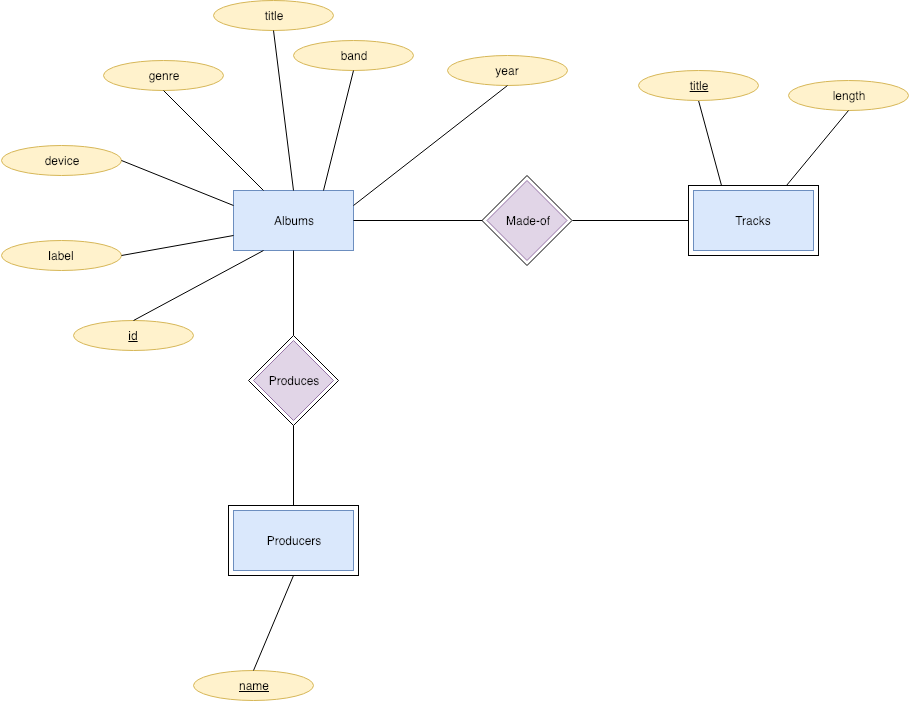
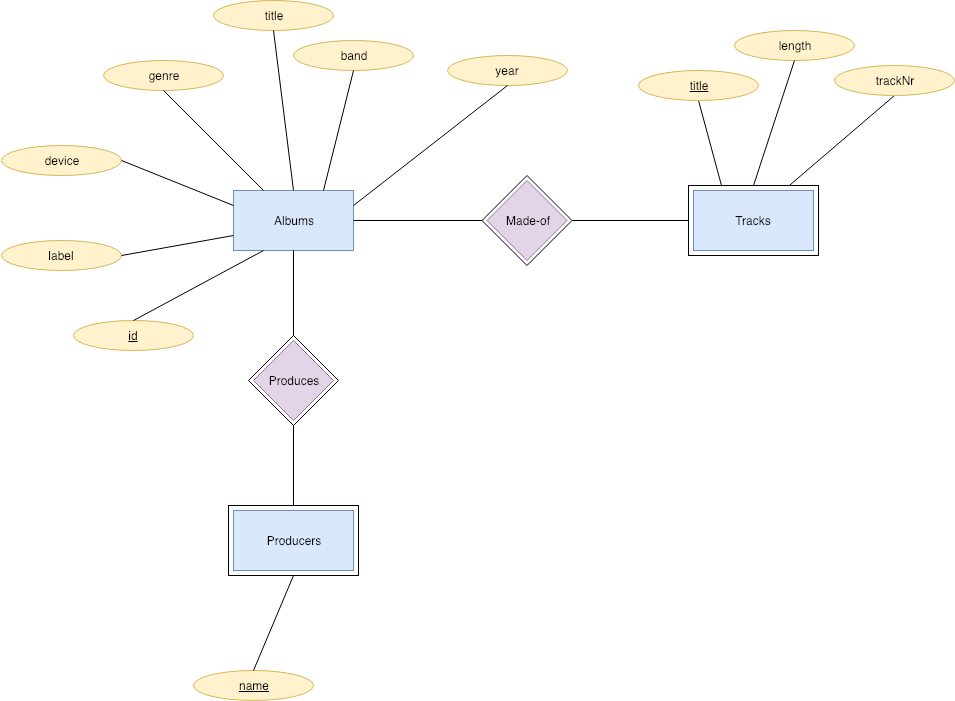
Change SQL design

diff --git a/routes/add.js b/routes/add.js
@@ -1,4 +1,5 @@
 const router = require('express').Router();
+const uniqid = require('uniqid');
 
 router
   .route('/')
@@ -9,46 +10,45 @@ router
     const db = req.app.get('db');
     const data = req.body;
     const producers = data.producer.split(',');
+    const id = uniqid();
 
     db.serialize(() => {
       db.run(
-        'INSERT INTO Albums (label, device, genre, albumTitle, band, year) VALUES (?, ?, ?, ?, ?, ?)',
+        'INSERT INTO Albums (label, device, genre, title, band, year, id) VALUES (?, ?, ?, ?, ?, ?, ?)',
         data.label,
         data.device,
         data.genre,
         data.title,
         data.band,
-        data.year
+        data.year,
+        id
       );
 
       if (Array.isArray(data.track)) {
         for (let i = 0; i < data.track.length; i++) {
           db.run(
-            'INSERT INTO Tracks (name, length, albumTitle, band, trackNr) VALUES (?, ?, ?, ?, ?)',
+            'INSERT INTO Tracks (name, length, trackNr, albumId) VALUES (?, ?, ?, ?)',
             data.track[i],
             data.length[i],
-            data.title,
-            data.band,
-            i + 1
+            i + 1,
+            id
           );
         }
       } else {
         db.run(
-          'INSERT INTO Tracks (name, length, albumTitle, band, trackNr) VALUES (?, ?, ?, ?, ?)',
+          'INSERT INTO Tracks (name, length, trackNr, albumId) VALUES (?, ?, ?, ?)',
           data.track,
           data.length,
-          data.title,
-          data.band,
-          1
+          1,
+          id
         );
       }
 
       for (let i = 0; i < producers.length; i++) {
         db.run(
-          'INSERT INTO Producers (name, albumTitle, band) VALUES (?, ?, ?)',
+          'INSERT INTO Producers (name, albumId) VALUES (?, ?)',
           producers[i],
-          data.title,
-          data.band,
+          id,
           () => {
             req.session.flash = {
               type: 'success',

diff --git a/config/database.js b/config/database.js
@@ -5,14 +5,12 @@ module.exports.connect = () => {
 
   db.serialize(() => {
     db.run(
-      'CREATE TABLE IF NOT EXISTS Albums (label CHAR, device CHAR, genre CHAR, albumTitle TEXT, band CHAR, year INT(4))'
+      'CREATE TABLE IF NOT EXISTS Albums (label CHAR, device CHAR, genre CHAR, title TEXT, band CHAR, year INT(4), id CHAR)'
     );
     db.run(
-      'CREATE TABLE IF NOT EXISTS Tracks (name CHAR, length INT, albumTitle TEXT, band CHAR, trackNr INT)'
+      'CREATE TABLE IF NOT EXISTS Tracks (name CHAR, length INT, trackNr INT, albumId INT)'
     );
-    db.run(
-      'CREATE TABLE IF NOT EXISTS Producers (name CHAR, albumTitle TEXT, band CHAR)'
-    );
+    db.run('CREATE TABLE IF NOT EXISTS Producers (name CHAR, albumId INT)');
   });
 
   console.log(`Connected to database: ${process.env.DB_NAME}...`);

diff --git a/README.md b/README.md
@@ -31,7 +31,7 @@ The relationship between **Albums** and **Tracks** is _many-many_ since an album
 
 Albums(label, device, genre, title, band, year, id)
 
-Tracks(name, length, albumId)
+Tracks(name, length, trackNr, albumId)
 
 Producers(name, albumId)
 
